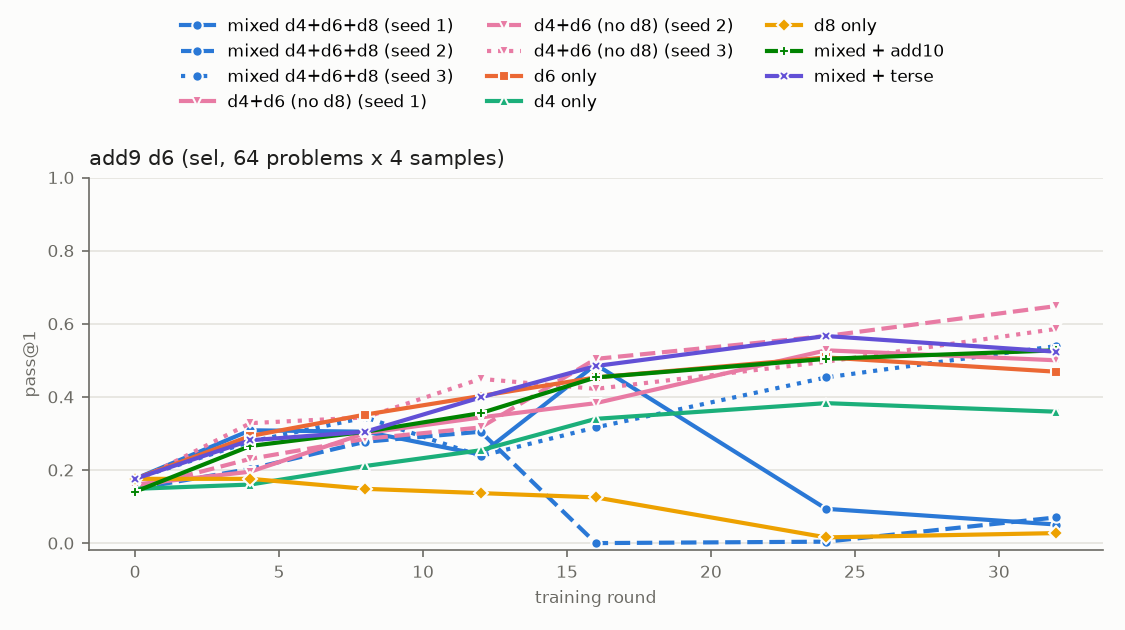
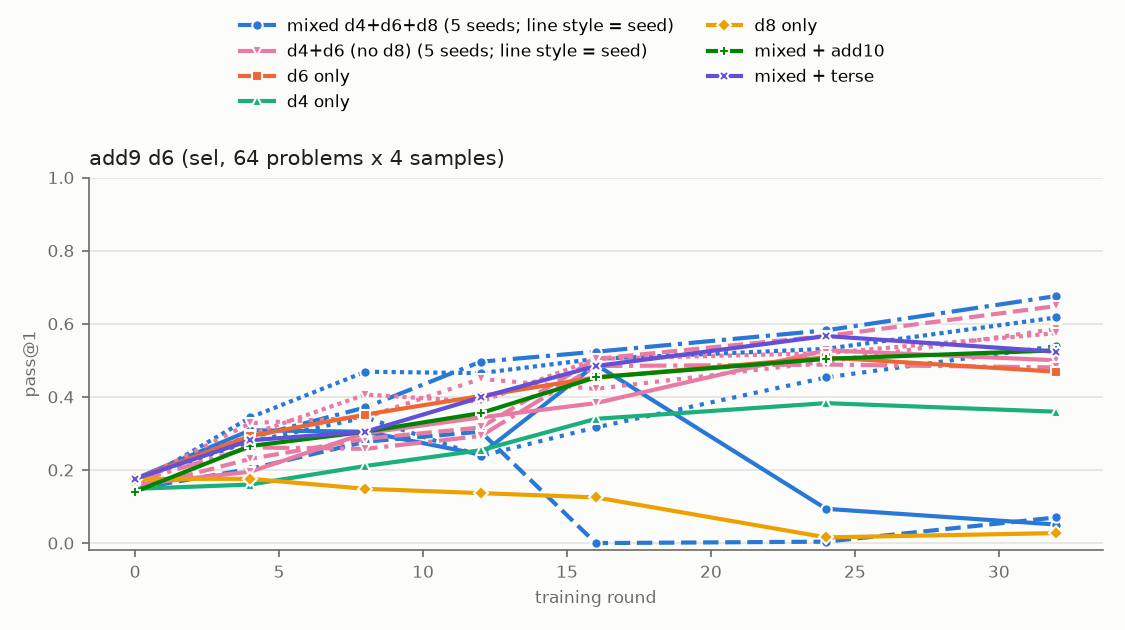
s02: fold E3g (collapse 2/5 with d8 vs 0/5 without, p=0.44) into report; runs.md 42 jobs; records snapshot

diff --git a/reports/Nov-15-2026-02-vineeth-babel-slurm-interference-dynamics/build/figs.py b/reports/Nov-15-2026-02-vineeth-babel-slurm-interference-dynamics/build/figs.py
@@ -21,7 +21,7 @@ import numpy as np
 
 SLOTS = ["#2a78d6", "#eb6834", "#1baf7a", "#eda100", "#e87ba4", "#008300", "#6250d6", "#e34948"]
 MARKERS = ["o", "s", "^", "D", "v", "P", "X", "*"]
-STYLES = {1: "-", 2: "--", 3: ":"}
+STYLES = {1: "-", 2: "--", 3: ":", 4: "-.", 5: (0, (1, 1))}
 INK, MUTED, GRID, SURFACE = "#1f1f1e", "#6b6a64", "#e4e3de", "#fcfcfb"
 DIV_NEG, DIV_POS = "#e34948", "#2a78d6"     # diverging poles (red = harm, blue = gain), grey midpoint
 
@@ -73,8 +73,10 @@ def legend_top(fig, ax, ncol=None):
 
 
 # condition -> (slot, [(expid, seed)])
-ADD9 = [("mixed d4+d6+d8", 0, [("qis-s02-e1-add9-s1", 1), ("qis-s02-e3-add9mix-s2", 2), ("qis-s02-e3-add9mix-s3r", 3)]),
-        ("d4+d6 (no d8)", 4, [("qis-s02-e3-add9d4d6-s1", 1), ("qis-s02-e3-add9d4d6-s2", 2), ("qis-s02-e3-add9d4d6-s3", 3)]),
+ADD9 = [("mixed d4+d6+d8", 0, [("qis-s02-e1-add9-s1", 1), ("qis-s02-e3-add9mix-s2", 2), ("qis-s02-e3-add9mix-s3r", 3),
+                                     ("qis-s02-e3-add9mix-s4", 4), ("qis-s02-e3-add9mix-s5", 5)]),
+        ("d4+d6 (no d8)", 4, [("qis-s02-e3-add9d4d6-s1", 1), ("qis-s02-e3-add9d4d6-s2", 2), ("qis-s02-e3-add9d4d6-s3", 3),
+                                    ("qis-s02-e3-add9d4d6-s4", 4), ("qis-s02-e3-add9d4d6-s5", 5)]),
         ("d6 only", 1, [("qis-s02-e3-add9d6-s1", 1)]),
         ("d4 only", 2, [("qis-s02-e3-add9d4-s1", 1)]),
         ("d8 only", 3, [("qis-s02-e3-add9d8-s1", 1)]),
@@ -92,13 +94,13 @@ def fig_add9(res, out):
                     e = evals(res, expid).get(f"add9_{st}_sel", {})
                     if e:
                         rs = sorted(e)
-                        lab = f"{cond}" + (f" (seed {seed})" if len(runs) > 1 else "")
+                        lab = (f"{cond} ({len(runs)} seeds; line style = seed)" if len(runs) > 1 else cond) if k == 0 else None
                         line(ax, rs, [e[r]["pass1"] for r in rs], slot, seed, lab)
             ax.set_title(f"add9 {st} (sel, 64 problems x 4 samples)", fontsize=10, color=INK, loc="left")
             ax.set_xlabel("training round", fontsize=8, color=MUTED)
             ax.set_ylim(-0.02, 1.0)
         axes[0][0].set_ylabel("pass@1", fontsize=8, color=MUTED)
-        legend_top(fig, axes[0][0], ncol=3)
+        legend_top(fig, axes[0][0], ncol=2)
         fig.tight_layout(rect=(0, 0, 1, 0.80))
         fig.savefig(os.path.join(out, name), dpi=150, facecolor=SURFACE)
         plt.close(fig)

diff --git a/reports/Nov-15-2026-02-vineeth-babel-slurm-interference-dynamics/report.md b/reports/Nov-15-2026-02-vineeth-babel-slurm-interference-dynamics/report.md
@@ -26,13 +26,13 @@ Main results:
    training terse itself, protected it. (F3, F5, F15, F19)
 3. **Inside one task family, a skill can collapse and stay collapsed because it stops receiving feedback.** When
    add9 trained on a mixture of 4-, 6- and 8-digit problems, the 6-digit stratum (d6) rose and then fell to near
-   zero in 2 of 3 seeds. Once all d6 training groups were all-wrong, d6 received no gradient. From the collapsed
+   zero in 2 of 5 seeds. Once all d6 training groups were all-wrong, d6 received no gradient. From the collapsed
    state, a branch with zero d6 successes did not recover in 8 rounds; one rare success (found by sampling 4x more)
    or transfer from d4 training restarted recovery. This is the persistence step of the RQ2 chain. (F8, F10, F14)
-4. **The trigger of that collapse is not identified.** It is not d8 gradients (d8 gave almost no gradient before
-   the seed-2 collapse). Without d8 groups, 0 of 3 seeds collapsed, against 2 of 3 with them (Fisher exact
-   p = 0.4); with a second task added (add10 or terse), 0 of 2 collapsed. Suggestive, not significant. (F13, F16,
-   F18, independent review)
+4. **The trigger of that collapse is not identified; it is an occasional event.** It is not d8 gradients (d8 gave
+   almost no gradient before the seed-2 collapse). Without d8 groups, 0 of 5 seeds collapsed, against 2 of 5 with
+   them (Fisher exact p = 0.44); with a second task added (add10 or terse), 0 of 2 collapsed. No condition
+   difference is significant. (F13, F16, F18, independent review)
 5. **A joint-run lag is not by itself evidence of interference.** Caesar trained with MBPP lagged Caesar alone by
    0.09-0.12 at round 32 while MBPP was unaffected. Halving Caesar's learning rate alone costs 0.14-0.53, so the lag
    fits Adam simply sharing each step between two active tasks. Add9 trained with decimal addition (add10) showed no
@@ -104,8 +104,8 @@ Single-task off-target effects at round 32 (Figure 2) show that a task's own tra
 
 | Condition | Seeds | d6 collapse | d6 at r32 |
 |---|---|---|---|
-| mixed d4+d6+d8 (3:3:2 groups) | 3 | 2 of 3 (seed 1 r16→r24, seed 2 r12→r16) | .05, .07, .54 |
-| d4+d6, no d8 | 3 | 0 of 3 | .50, .65, .59 |
+| mixed d4+d6+d8 (3:3:2 groups) | 5 | 2 of 5 (seed 1 r16→r24, seed 2 r12→r16) | .05, .07, .54, .68, .62 |
+| d4+d6, no d8 | 5 | 0 of 5 | .50, .65, .59, .48, .57 |
 | d6 only | 1 | no | .47 |
 | d4 only | 1 | no (d6 rises .15 → .36) | .36 |
 | d8 only | 1 | d6 falls .18 → .03 | .03 |
@@ -169,10 +169,10 @@ with three seeds it is a correlation, not a test.
 | C-3 terse delays harder Caesar strata | j-caesar-terse-s1/-s2/-s3 vs e1-caesar-s1/-s2/-s3 | D(r16) s8 +.18/+.12/+.07, s12 +.11/+.15/+.02 | 2 of 3 seeds; tracks answer shortening |
 | C-4 add10 / terse do not harm add9 | j-add9-add10-s1, j-add9-terse-s1 vs e1-add9-s1 | |D(d4)| ≤ .06; d6 no collapse in either | 1 seed each |
 | C-5 MBPP slows Caesar beyond step sharing | j-caesar-mbpp-s1, e1-caesar-s1, e1-mbpp-s1, e1-caesar-lr1e6-s1 | D(r32) +.09..+.12; half lr costs .14-.53 | not supported: step sharing suffices |
-| C-6 mixed add9 can collapse d6 | e1-add9-s1, e3-add9mix-s2, -s3r | 2 of 3 seeds | supported (reviewed) |
+| C-6 mixed add9 can collapse d6 | e1-add9-s1, e3-add9mix-s2, -s3r, -s4, -s5 | 2 of 5 seeds | supported (reviewed); occasional |
 | C-7 d4 training helps d6 | e3-add9d4-s1 | +.21 [+.13, +.30] | 1 seed (reviewed) |
 | C-8 d8 training harms d4, d6 | e3-add9d8-s1 | −.25, −.15 | 1 seed; d6 answers shorten (reviewed) |
-| C-9 d8 triggers the collapse | e3-add9mix-s2 strata; e3-add9d4d6-s1/-s2 | 2 d8 updates before seed-2 collapse; 0/3 without d8 vs 2/3 with (p=0.4) | not supported as stated; open |
+| C-9 d8 triggers the collapse | e3-add9mix-s2 strata; e3-add9mix-s1..s5; e3-add9d4d6-s1..s5 | 2 d8 updates before seed-2 collapse; 0/5 without d8 vs 2/5 with (p=0.44) | not supported; open |
 | C-10 no successes → no recovery; a success restarts it | e3b-r16-d6 / -d6n32 / -mixed | .000 / .113 / .072 | 1 collapse state (reviewed, partial) |
 
 ## 6. What this study cannot establish

diff --git a/research/Nov-15-2026-02-vineeth-babel-slurm-interference-dynamics/records-2026-11-16/STATE.md b/research/Nov-15-2026-02-vineeth-babel-slurm-interference-dynamics/records-2026-11-16/STATE.md
@@ -1,4 +1,4 @@
-# STATE — study s02 (Nov-15-2026-02), updated 2026-11-16 14:14 EST — FINAL (report delivered)
+# STATE — study s02 (Nov-15-2026-02), updated 2026-11-16 16:25 EST — FINAL (report delivered; E3g folded in)
 
 ## Objective
 RQ1: which task relationships give transfer / independence / transient harm / persistent delay, and why.
@@ -12,13 +12,13 @@ All results exploratory (1-3 seeds), sel panels unless "conf". Report: reports/<
   shorter (F6, F11, F19). Brevity spill-over fits; untested by intervention.
 - caesar × MBPP: lag of .09-.12 explained by Adam step sharing (half-lr control costs .14-.53; F15, F17).
 - add9 × add10 and add9 × terse: no harm to add9 (F7, F18).
-- add9 mixed strata: d6 collapses in 2/3 seeds (F8, F14); once all d6 groups are all-wrong there is no signal; with
+- add9 mixed strata: d6 collapses in 2/5 seeds (F8, F14, F16); once all d6 groups are all-wrong there is no signal; with
   zero successes no recovery in 8 rounds, one success or d4 transfer restarts it (F10; review: partial — the
   8-sample branch took no gradient; the 32-sample gain is one step and is confounded with step size).
 - d4 training helps d6 (+.21); d8 training harms d4 (−.25) and d6 (−.15) (F9, F12).
 
 ## Uncertain
-- Trigger of the d6 collapse: not d8 gradients (F13); without d8 0/3 collapse vs 2/3 with (p=0.4); with a
+- Trigger of the d6 collapse: not d8 gradients (F13); without d8 0/5 collapse vs 2/5 with (p=0.44); with a
   competitor 0/2. Candidates: d4×d6 interaction, sparse-update drift under Adam, d8 group presence.
 - Why d4-only lowers terse while d6-only raises it.
 - vLLM sampling not reproducible across jobs (same-model evals differ ≤ .04).
@@ -33,6 +33,6 @@ All results exploratory (1-3 seeds), sel panels unless "conf". Report: reports/<
   (excluded), NFS slowdown 11:30-12:45 (use no_ckpt where possible). Hourly cron is session-only.
 
 ## Next actions (for a successor; handover.md §4)
-1. Collapse trigger: more seeds of mixed vs d4+d6; per-stratum gradient logging; random-reward stratum.
+1. Collapse trigger (occasional, 2/5): per-stratum gradient logging; random-reward stratum.
 2. Test brevity spill-over by intervention (looser terse length limit).
 3. Verify remaining storage under /data/user_data/$USER/qis/s02 before new work.

diff --git a/research/Nov-15-2026-02-vineeth-babel-slurm-interference-dynamics/records-2026-11-16/direction.md b/research/Nov-15-2026-02-vineeth-babel-slurm-interference-dynamics/records-2026-11-16/direction.md
@@ -330,3 +330,13 @@ MBPP (code, execution-graded), ARC-Challenge (factual), terse answers (a behavio
 - **2026-11-16 14:14 EST — final.** All 38 study jobs ended. Report finalised (report.md with F17-F19, runs.md with
   sacct states, handover.md, figures incl. seed 3). STATE marked FINAL. Records snapshot refreshed in
   research/<ID>/records-2026-11-16/. No study jobs running; watcher left to expire.
+- **2026-11-16 14:37 EST — hourly review + decision.** No study jobs were running; report final (1fb1050). With ~6.5 h
+  to the deadline, the weakest open point is the collapse trigger (2/3 with d8 vs 0/3 without, p=0.4). Submitted
+  E3g at 338c994, no checkpoints: mixed s4, s5 (general; 11176691, 11176692) and d4+d6 s4, s5 (preempt; 11176693,
+  11176696). Plan: fold results into the report by ~19:00 if they land; the report stands as is if they do not.
+  Ceilings: general 2/2, preempt 2/6, CPU 0/20. Watcher re-armed.
+- **2026-11-16 15:24 EST — event (E3g d4+d6 s4 done).** No collapse: d6 .17 → .48 (r32), d4 .52 → .70, d8 .04 → .12. Without d8: 0/4. Mixed s4, s5 running (general, ~47 min); d4+d6 s5 running (preempt).
+- **2026-11-16 15:36 EST — hourly review (short).** Evidence since 14:36: d4+d6 s4 no collapse (0/4 without d8). Running: mixed s4, s5 (general, 59 min; add9 mixed runs take ~1.5-2 h), d4+d6 s5 (preempt, 25 min). Ceilings: general 2/2, preempt 1/6, CPU 0/20. Nothing cancelled. Next: mixed s4/s5 readout (~16:15-16:45), then update F16 and the report.
+- **2026-11-16 15:59 EST — event (E3g d4+d6 s5 done).** No collapse: d6 .17 → .57, d4 .52 → .79, d8 .04 → .12. Without d8: 0/5. Waiting for mixed s4, s5 (general, 82 min).
+- **2026-11-16 16:15 EST — event (E3g mixed s5 done).** No collapse: d6 .16 → .62, d8 .04 → .18. With d8: 2/4; without: 0/5 (Fisher two-sided p ≈ 0.17). Waiting for mixed s4 (general, 98 min).
+- **2026-11-16 16:25 EST — event (E3g complete; all study jobs ended).** Mixed s4, s5 did not collapse: with d8 2/5, without 0/5 (p=0.44). Report, handover, figures updated; runs.md regenerated.

diff --git a/research/Nov-15-2026-02-vineeth-babel-slurm-interference-dynamics/records-2026-11-16/FINDINGS.md b/research/Nov-15-2026-02-vineeth-babel-slurm-interference-dynamics/records-2026-11-16/FINDINGS.md
@@ -343,3 +343,12 @@ Terse (competitor) mixed groups: 11, 4, 3, 0 per 8-round block (as in seeds 1-2)
 Combined (3 seeds): the harder-strata delay appears in 2/3 seeds (s1, s2) and is absent in s3. In all three seeds the
 delay goes with shorter caesar answers in the joint run during rounds 1-16, and its absence with no shortening.
 Supports brevity spill-over as the mechanism (correlational, n=3; not tested by intervention).
+- 2026-11-16  **qis-s02-e3-add9d4d6-s4**  COMPLETED  sha=338c9942f5436045a4fab6f1cb1e5297cf5fd81d  job=11176693  results=slurm-agentic-engineering/results/qis-s02-e3-add9d4d6-s4/
+- 2026-11-16  **qis-s02-e3-add9d4d6-s5**  COMPLETED  sha=338c9942f5436045a4fab6f1cb1e5297cf5fd81d  job=11176696  results=slurm-agentic-engineering/results/qis-s02-e3-add9d4d6-s5/
+- 2026-11-16  **qis-s02-e3-add9mix-s5**  COMPLETED  sha=338c9942f5436045a4fab6f1cb1e5297cf5fd81d  job=11176692  results=slurm-agentic-engineering/results/qis-s02-e3-add9mix-s5/
+- 2026-11-16  **qis-s02-e3-add9mix-s4**  COMPLETED  sha=338c9942f5436045a4fab6f1cb1e5297cf5fd81d  job=11176691  results=slurm-agentic-engineering/results/qis-s02-e3-add9mix-s4/
+F16 FINAL-2 (16:25 EST, E3g seeds 4-5, commit 338c994, no checkpoints): mixed s4 (11176691) d6 .18 → .68, mixed s5
+(11176692) d6 .16 → .62, d4+d6 s4 (11176693) .17 → .48, d4+d6 s5 (11176696) .17 → .57 — none collapsed.
+Collapse count: mixed with d8 2/5; d4+d6 without d8 0/5 (Fisher exact two-sided p = 0.44); with a competitor 0/2.
+Revised reading: the d6 collapse is an occasional event of the mixed configuration (2/5 seeds); its association with
+d8 is not significant. RQ2 persistence/recovery findings (F10) are unaffected.

diff --git a/reports/Nov-15-2026-02-vineeth-babel-slurm-interference-dynamics/handover.md b/reports/Nov-15-2026-02-vineeth-babel-slurm-interference-dynamics/handover.md
@@ -46,8 +46,8 @@ Code: task generators `src/qis/s02/tasks.py`; graders `src/qis/verify.py`; train
 
 ## 4. Open questions, in priority order
 
-1. **What triggers the add9 d6 collapse?** Seen in 2/3 mixed runs, 0/3 without d8, 0/2 with a competitor. Next
-   runs: 3+ more seeds of the mixed and d4+d6 configurations (to test the d8 association, p = 0.4 now); log
+1. **What triggers the add9 d6 collapse?** Seen in 2/5 mixed runs, 0/5 without d8, 0/2 with a competitor (no
+   difference significant; p = 0.44 for d8). More seeds alone are costly at this rate; better: log
    per-minibatch composition and gradient norms by stratum; a random-reward stratum in place of d8 (reviewer's
    suggestion) to separate "sparse noisy updates" from d8 content.
 2. **Is the Caesar delay under terse caused by brevity spill-over?** The delay appeared in 2 of 3 seeds, exactly
@@ -59,7 +59,7 @@ Code: task generators `src/qis/s02/tasks.py`; graders `src/qis/verify.py`; train
 
 ## 5. State at hand-over
 
-All 38 study jobs have ended; `runs.md` lists each final state from `sacct`. No study job was running at hand-over.
+All 42 study jobs have ended; `runs.md` lists each final state from `sacct`. No study job was running at hand-over.
 Compute storage under `/data/user_data/vineethb/qis/s02` holds run directories (metrics, training and evaluation
 records) and bundles. Retained checkpoints were deleted at 13:04 EST; finished runs pruned their own checkpoints in
 the export phase. Last measured: 99 GB under `s02/ckpt` at 13:03 EST, before the final deletions and prunes; not

diff --git a/reports/Nov-15-2026-02-vineeth-babel-slurm-interference-dynamics/runs.md b/reports/Nov-15-2026-02-vineeth-babel-slurm-interference-dynamics/runs.md
@@ -45,3 +45,7 @@ harness workspace `slurm-agentic-engineering/results/<expid>/`; full outputs on 
 | `qis-s02-e3-add9d4d6-s3` | 11174313 | `305dc56` | `b42c5140b917` | 1 | COMPLETED | 2026-11-16T13:02:51 | preempted twice; resumed; rounds 17-24 duplicated in metrics |
 | `qis-s02-e1-caesar-s3` | 11175477 | `d2c5199` | `c45380d13932` | 1 | COMPLETED | 2026-11-16T13:56:38 |  |
 | `qis-s02-j-caesar-terse-s3` | 11175478 | `d2c5199` | `f92658a394af` | 1 | COMPLETED | 2026-11-16T14:10:12 |  |
+| `qis-s02-e3-add9mix-s4` | 11176691 | `338c994` | `d67bbf292395` | 1 | COMPLETED | 2026-11-16T16:23:32 |  |
+| `qis-s02-e3-add9mix-s5` | 11176692 | `338c994` | `68502a494c3b` | 1 | COMPLETED | 2026-11-16T16:13:53 |  |
+| `qis-s02-e3-add9d4d6-s4` | 11176693 | `338c994` | `6c4c7bd53ece` | 1 | COMPLETED | 2026-11-16T15:23:32 |  |
+| `qis-s02-e3-add9d4d6-s5` | 11176696 | `338c994` | `7526d30f5bba` | 1 | COMPLETED | 2026-11-16T15:58:47 |  |
